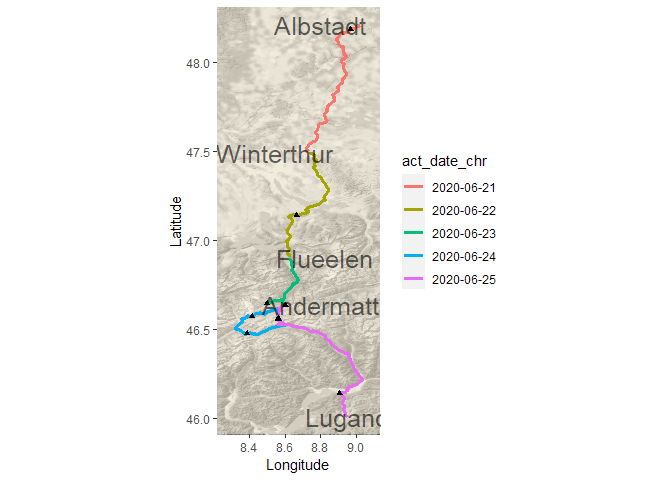
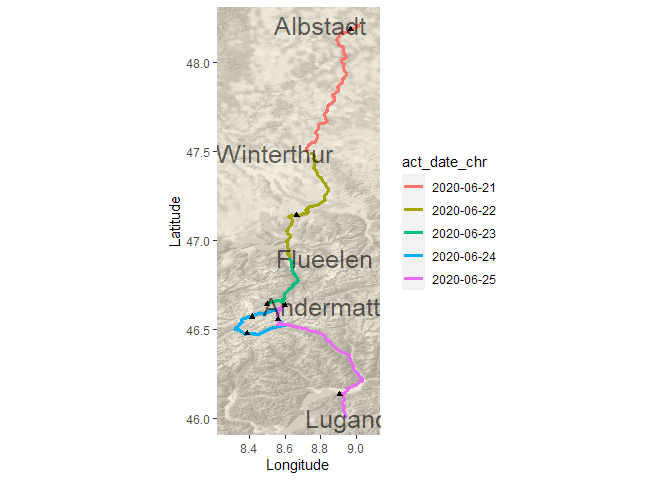
Include new function in readme

diff --git a/README.md b/README.md
@@ -44,20 +44,19 @@ The input files contain all the data of my 5 days on the bike. Every row
 is a measurement of one point in time on my trip:
 
     ## # A tibble: 90,917 x 13
-    ##    id      moving velocity_smooth grade_smooth distance altitude heartrate  time
-    ##    <chr>   <lgl>            <dbl>        <dbl>    <dbl>    <dbl>     <int> <int>
-    ##  1 366972~ FALSE              0            0        0      1452.        NA     0
-    ##  2 366972~ FALSE              0            0        0.9    1446         NA   412
-    ##  3 366972~ TRUE               0          -44.6      4.6    1446         NA   413
-    ##  4 366972~ TRUE               0            1.4      8.4    1446         NA   414
-    ##  5 366972~ TRUE               0            2.8     12.1    1446.        NA   415
-    ##  6 366972~ TRUE               0            2.8     15.6    1446.        NA   416
-    ##  7 366972~ TRUE               0            1.4     19.1    1446.        NA   417
-    ##  8 366972~ TRUE               3.6          1.4     22.5    1446.        NA   418
-    ##  9 366972~ TRUE               3.5          0       26      1446.        NA   419
-    ## 10 366972~ TRUE               3.5          1.6     29.5    1446.        NA   420
-    ## # ... with 90,907 more rows, and 5 more variables: cadence <int>, watts <int>,
-    ## #   lat <dbl>, lng <dbl>, act_date <date>
+    ##    id     moving velocity_smooth grade_smooth distance altitude heartrate  time cadence watts   lat   lng
+    ##    <chr>  <lgl>            <dbl>        <dbl>    <dbl>    <dbl>     <int> <int>   <int> <int> <dbl> <dbl>
+    ##  1 36697~ FALSE              0            0        0      1452.        NA     0      NA    NA  46.6  8.60
+    ##  2 36697~ FALSE              0            0        0.9    1446         NA   412      NA    NA  46.6  8.60
+    ##  3 36697~ TRUE               0          -44.6      4.6    1446         NA   413      NA    NA  46.6  8.60
+    ##  4 36697~ TRUE               0            1.4      8.4    1446         NA   414      NA    NA  46.6  8.60
+    ##  5 36697~ TRUE               0            2.8     12.1    1446.        NA   415      NA    NA  46.6  8.60
+    ##  6 36697~ TRUE               0            2.8     15.6    1446.        NA   416      NA    NA  46.6  8.60
+    ##  7 36697~ TRUE               0            1.4     19.1    1446.        NA   417      NA    NA  46.6  8.60
+    ##  8 36697~ TRUE               3.6          1.4     22.5    1446.        NA   418      NA    NA  46.6  8.60
+    ##  9 36697~ TRUE               3.5          0       26      1446.        NA   419      NA    NA  46.6  8.60
+    ## 10 36697~ TRUE               3.5          1.6     29.5    1446.        NA   420      NA    NA  46.6  8.60
+    ## # ... with 90,907 more rows, and 1 more variable: act_date <date>
 
 # Preprocessing
 
@@ -103,19 +102,19 @@ the geospatial data in a list column:
     ## z_range:       zmin: 206.8 zmax: 2477.6
     ## CRS:           NA
     ## # A tibble: 5 x 5
-    ##   id         act_date_chr act_data                                    line geom 
-    ##   <chr>      <chr>        <list>                              <LINESTRING> <lis>
-    ## 1 3650448726 2020-06-21   <tibble [16,279 x 13]> Z (9.021049 48.21307 750~ <LIN~
-    ## 2 3654245140 2020-06-22   <tibble [16,447 x 13]> Z (8.741265 47.49397 432~ <LIN~
-    ## 3 3659045033 2020-06-23   <tibble [14,612 x 13]> Z (8.625703 46.90152 447~ <LIN~
-    ## 4 3664650034 2020-06-24   <tibble [23,046 x 13]> Z (8.602206 46.63612 151~ <LIN~
-    ## 5 3669729902 2020-06-25   <tibble [20,533 x 13]> Z (8.596761 46.63501 145~ <LIN~
+    ##   id         act_date_chr act_data                                                          line geom    
+    ##   <chr>      <chr>        <list>                                                    <LINESTRING> <list>  
+    ## 1 3650448726 2020-06-21   <tibble [16,279 x 13]> Z (9.021049 48.21307 750.2, 9.021047 48.21307 ~ <LINEST~
+    ## 2 3654245140 2020-06-22   <tibble [16,447 x 13]> Z (8.741265 47.49397 432, 8.741308 47.49395 43~ <LINEST~
+    ## 3 3659045033 2020-06-23   <tibble [14,612 x 13]> Z (8.625703 46.90152 447, 8.625694 46.9015 447~ <LINEST~
+    ## 4 3664650034 2020-06-24   <tibble [23,046 x 13]> Z (8.602206 46.63612 1510.2, 8.602228 46.63609~ <LINEST~
+    ## 5 3669729902 2020-06-25   <tibble [20,533 x 13]> Z (8.596761 46.63501 1451.6, 8.596328 46.63487~ <LINEST~
 
 Define important points of interest on the route (based on their row
 number). Also include a small offset in a separate column. This will
 help to improve the plot later on:
 
-    extract_poi <- function(df_act_meas_pro) {
+    poi <- function(df_act_meas_pro) {
       tribble(
         ~row_nr, ~poi_name, ~poi_type,
         1, "Albstadt", "start_location",
@@ -166,11 +165,11 @@ Visualise the altitude data:
           breaks = breaks_width(10), expand = expansion(mult = c(0.01, .01)))
     }
 
-    ## Warning in grid.Call.graphics(C_text, as.graphicsAnnot(x$label), x$x, x$y, :
-    ## Zeichensatzfamilie in der Windows Zeichensatzdatenbank nicht gefunden
+    ## Warning in grid.Call.graphics(C_text, as.graphicsAnnot(x$label), x$x, x$y, : Zeichensatzfamilie in der
+    ## Windows Zeichensatzdatenbank nicht gefunden
 
-    ## Warning in grid.Call.graphics(C_text, as.graphicsAnnot(x$label), x$x, x$y, :
-    ## Zeichensatzfamilie in der Windows Zeichensatzdatenbank nicht gefunden
+    ## Warning in grid.Call.graphics(C_text, as.graphicsAnnot(x$label), x$x, x$y, : Zeichensatzfamilie in der
+    ## Windows Zeichensatzdatenbank nicht gefunden
 
 ![](README_files/figure-markdown_strict/gg_altitude-1.png)
 
@@ -214,8 +213,8 @@ avoids too much overplotting.
         labs(x = "Longitude", y = "Latitude")
     }
 
-    ## Warning in grid.Call.graphics(C_text, as.graphicsAnnot(x$label), x$x, x$y, :
-    ## Zeichensatzfamilie in der Windows Zeichensatzdatenbank nicht gefunden
+    ## Warning in grid.Call.graphics(C_text, as.graphicsAnnot(x$label), x$x, x$y, : Zeichensatzfamilie in der
+    ## Windows Zeichensatzdatenbank nicht gefunden
 
 ![](README_files/figure-markdown_strict/gg_rides-1.png)
 
